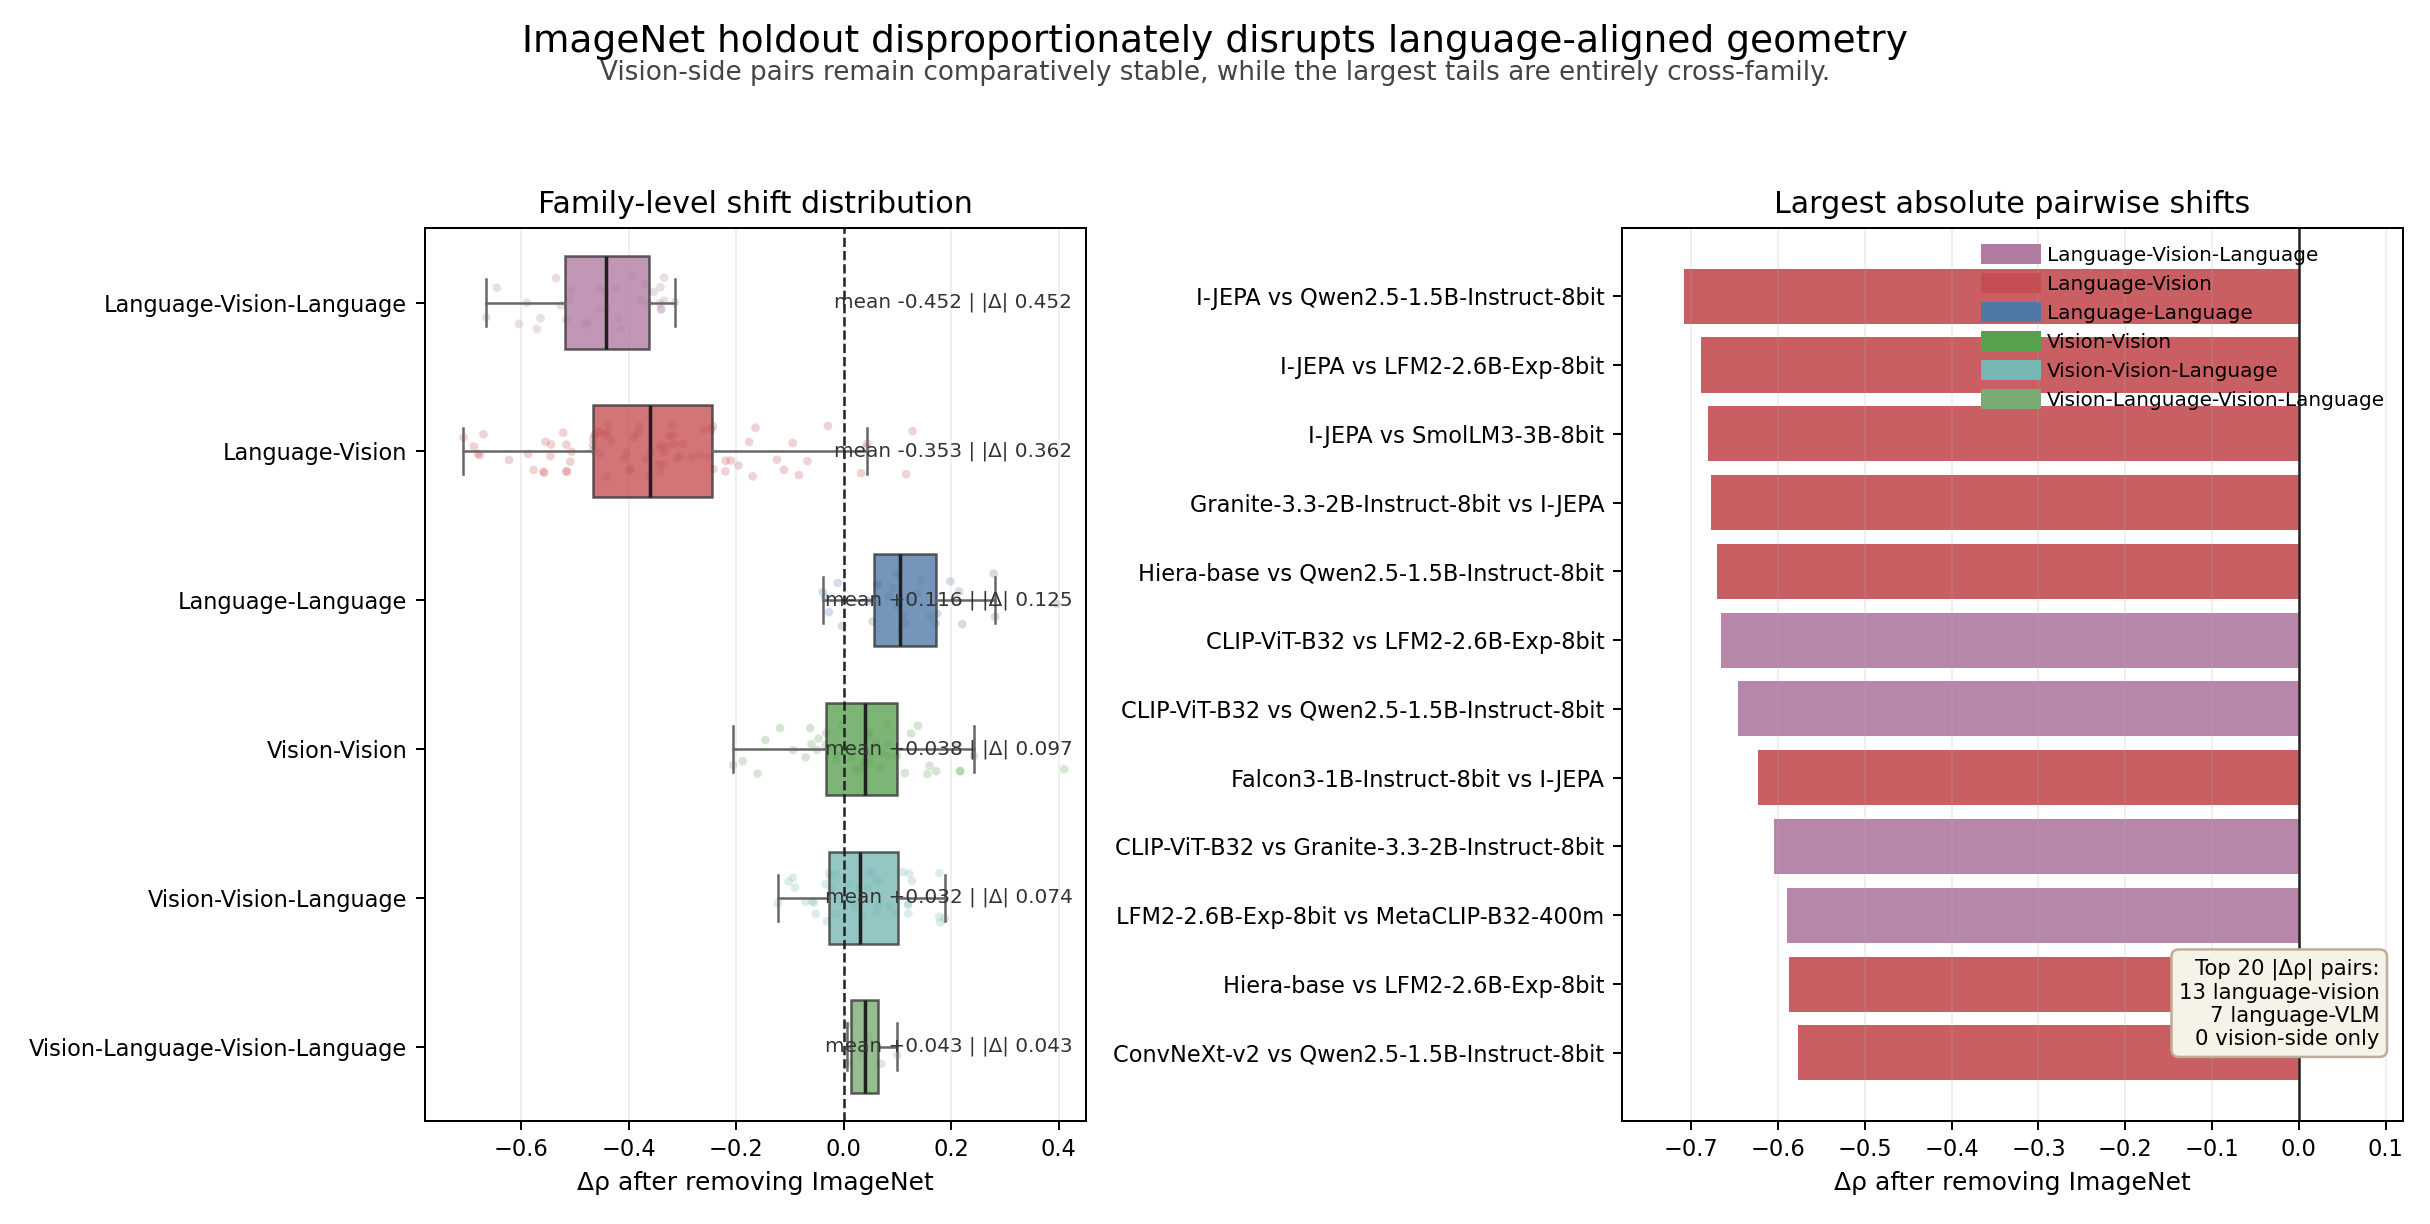
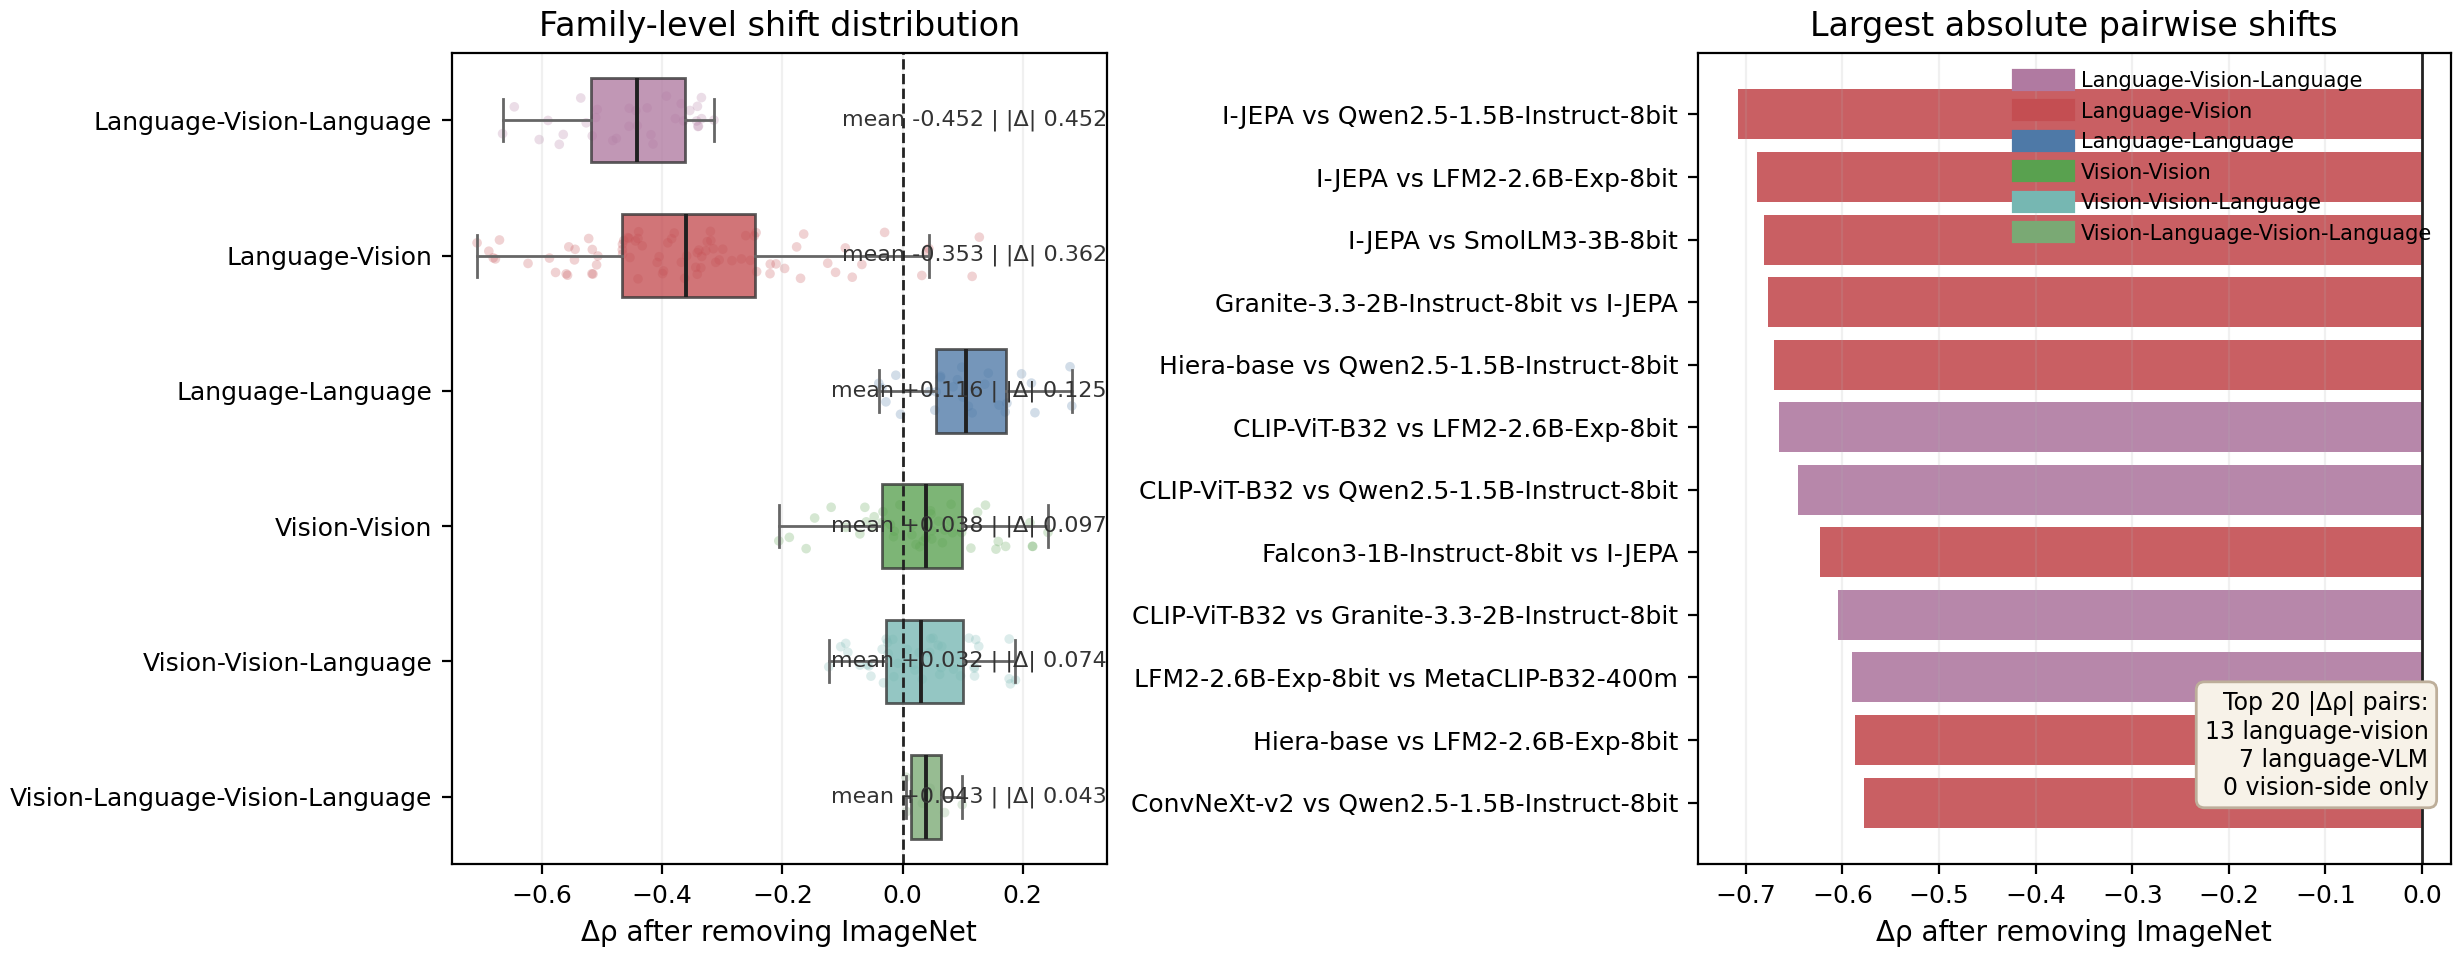
Tighten ImageNet holdout figure layout

diff --git a/src/plot_imagenet_holdout_impact.py b/src/plot_imagenet_holdout_impact.py
@@ -114,8 +114,8 @@ def _build_figure(
     fig, axes = plt.subplots(
         1,
         2,
-        figsize=(13.5, 6.8),
-        gridspec_kw={"width_ratios": [1.1, 1.3]},
+        figsize=(12.4, 4.9),
+        gridspec_kw={"width_ratios": [1.0, 1.15]},
     )
 
     order = [family for family in FAMILY_ORDER if family in grouped]
@@ -153,7 +153,7 @@ def _build_figure(
         mean_delta = float(np.mean(values))
         mean_abs = float(np.mean(np.abs(values)))
         axes[0].text(
-            0.425,
+            0.34,
             idx,
             f"mean {mean_delta:+.3f} | |Δ| {mean_abs:.3f}",
             va="center",
@@ -166,7 +166,7 @@ def _build_figure(
     axes[0].set_yticks(positions)
     axes[0].set_yticklabels(order)
     axes[0].invert_yaxis()
-    axes[0].set_xlim(-0.78, 0.45)
+    axes[0].set_xlim(-0.75, 0.34)
     axes[0].set_xlabel("Δρ after removing ImageNet")
     axes[0].set_title("Family-level shift distribution")
     axes[0].grid(axis="x", alpha=0.18)
@@ -182,7 +182,7 @@ def _build_figure(
     axes[1].axvline(0.0, color="#222222", linewidth=1.0)
     axes[1].set_yticks(y)
     axes[1].set_yticklabels(labels)
-    axes[1].set_xlim(-0.78, 0.12)
+    axes[1].set_xlim(-0.75, 0.03)
     axes[1].set_xlabel("Δρ after removing ImageNet")
     axes[1].set_title("Largest absolute pairwise shifts")
     axes[1].grid(axis="x", alpha=0.18)
@@ -195,7 +195,7 @@ def _build_figure(
         handles=legend_handles,
         loc="upper right",
         frameon=False,
-        fontsize=8,
+        fontsize=7.5,
     )
 
     summary_text = (
@@ -215,22 +215,9 @@ def _build_figure(
         bbox={"facecolor": "#F7F2E8", "edgecolor": "#BDAE9A", "boxstyle": "round,pad=0.35"},
     )
 
-    fig.suptitle(
-        "ImageNet holdout disproportionately disrupts language-aligned geometry",
-        fontsize=15,
-        y=0.98,
-    )
-    fig.text(
-        0.5,
-        0.935,
-        "Vision-side pairs remain comparatively stable, while the largest tails are entirely cross-family.",
-        ha="center",
-        fontsize=10.5,
-        color="#444444",
-    )
-    fig.tight_layout(rect=[0, 0, 1, 0.92])
+    fig.tight_layout(pad=0.7, w_pad=0.9)
     output_path.parent.mkdir(parents=True, exist_ok=True)
-    fig.savefig(output_path, dpi=180)
+    fig.savefig(output_path, dpi=200, bbox_inches="tight", pad_inches=0.05)
     plt.close(fig)
 
 
